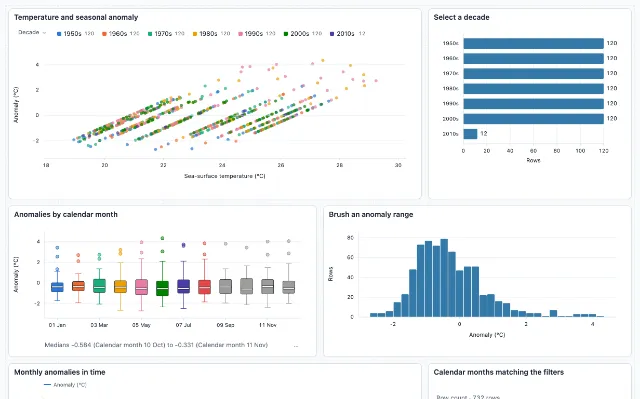
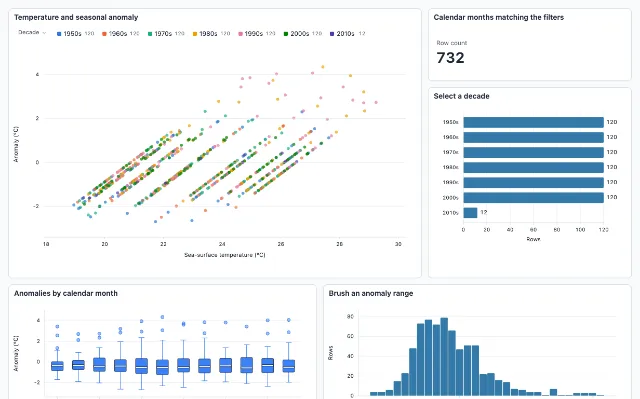
fix(charts): one box fill past the palette, no repeated count on metric cards
A box plot colored by its own groups grayed every group past the
eighth, which read as missing data. It now draws all boxes in one
fill when the palette runs out. A count metric card dropped the
duplicate "· 732 rows" beside its label. The El Niño dashboard puts
the count above the decade selector, so no panel leaves a blank gap.

diff --git a/packages/explorEDA/src/components/charts/BoxPlot/BoxPlot.tsx b/packages/explorEDA/src/components/charts/BoxPlot/BoxPlot.tsx
@@ -13,6 +13,7 @@ import {
   categoryValue,
 } from "@/lib/categories";
 import { formatFieldValue as formatValue } from "@/lib/fieldSettings";
+import { OTHER_COLOR } from "@/lib/colorPalettes";
 import {
   boundedDomain,
   countNonpositive,
@@ -445,6 +446,15 @@ export function BoxPlot({
     ? getFieldLabel(settings.colorField)
     : "Group";
   const shown = groupStats.filter(({ stats }) => stats.totalCount > 0);
+  // Color only repeats each box's own label, so when the palette runs out
+  // and grays some boxes, every box takes the one fill instead.
+  const paletted = shown.map(({ group }) =>
+    getColorForValue(settings.colorScaleId, group, settings.styles.boxFill)
+  );
+  const colorFor = (group: datum) =>
+    paletted.includes(OTHER_COLOR)
+      ? settings.styles.boxFill
+      : getColorForValue(settings.colorScaleId, group, settings.styles.boxFill);
   const hovered = shown.find(
     ({ group }) => categoryLabel(group) === hoveredGroup
   );
@@ -583,11 +593,7 @@ export function BoxPlot({
             {settings.showObservations &&
               shown.flatMap(({ group }) => {
                 const x = xScale(categoryLabel(group)) ?? 0;
-                const color = getColorForValue(
-                  settings.colorScaleId,
-                  group,
-                  settings.styles.boxFill
-                );
+                const color = colorFor(group);
                 return (traceGroups.get(categoryKey(group))?.contributors ?? [])
                   .filter((item) => item.included)
                   .slice(0, 300)
@@ -631,11 +637,7 @@ export function BoxPlot({
             !categoryIncludes(selectedGroups, group);
           const outlined =
             label === hoveredGroup || (selectedGroups.length === 1 && !dimmed);
-          const boxColor = getColorForValue(
-            settings.colorScaleId,
-            group,
-            settings.styles.boxFill
-          );
+          const boxColor = colorFor(group);
           const xPos = xScale(label) ?? 0;
           const kde = groupKDEs?.find((g) => g.group === group)?.kde;
           const firstKde = kde?.[0];

diff --git a/packages/explorEDA/src/components/charts/MetricCard/MetricCard.tsx b/packages/explorEDA/src/components/charts/MetricCard/MetricCard.tsx
@@ -122,9 +122,11 @@ export function MetricCard({
   const [oneUnit, manyUnits] = settings.entityField
     ? ["ID", "IDs"]
     : ["row", "rows"];
-  const rowsText = comparison
-    ? ""
-    : `${plan.rowCount.toLocaleString()} ${plan.rowCount === 1 ? oneUnit : manyUnits}`;
+  // A count already is the number of rows, so it does not repeat it.
+  const rowsText =
+    comparison || plan.aggregation === "count"
+      ? ""
+      : `${plan.rowCount.toLocaleString()} ${plan.rowCount === 1 ? oneUnit : manyUnits}`;
   const filteredRows =
     comparison && plan.aggregation !== "count" && plan.totalRows !== undefined
       ? `${plan.rowCount.toLocaleString()} of ${plan.totalRows.toLocaleString()} ${manyUnits}`

diff --git a/.changeset/box-plots-with-more-groups-than-palette-colors-d.md b/.changeset/box-plots-with-more-groups-than-palette-colors-d.md
@@ -1,0 +1,5 @@
+---
+"exploreda": patch
+---
+
+Box plots with more groups than palette colors draw every box in one fill instead of graying the overflow, and a row-count metric card no longer repeats its count beside the label.
